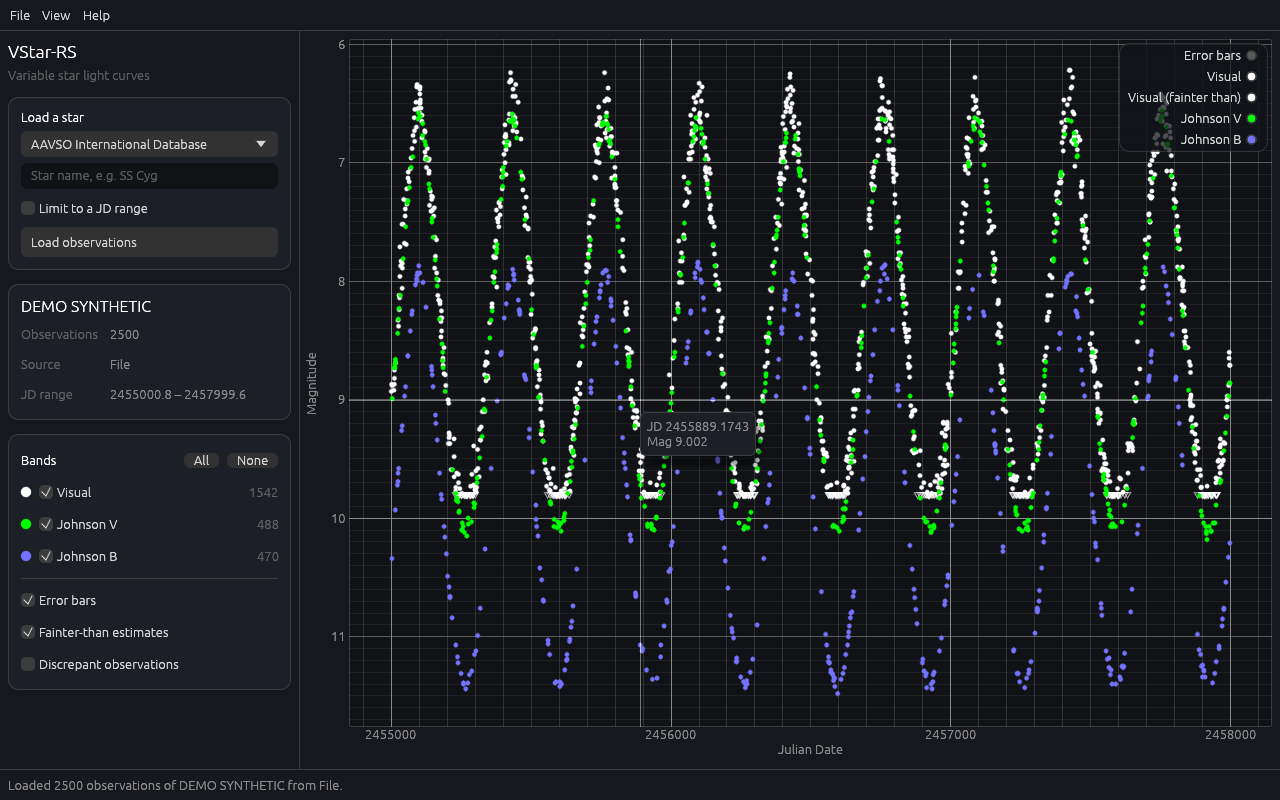
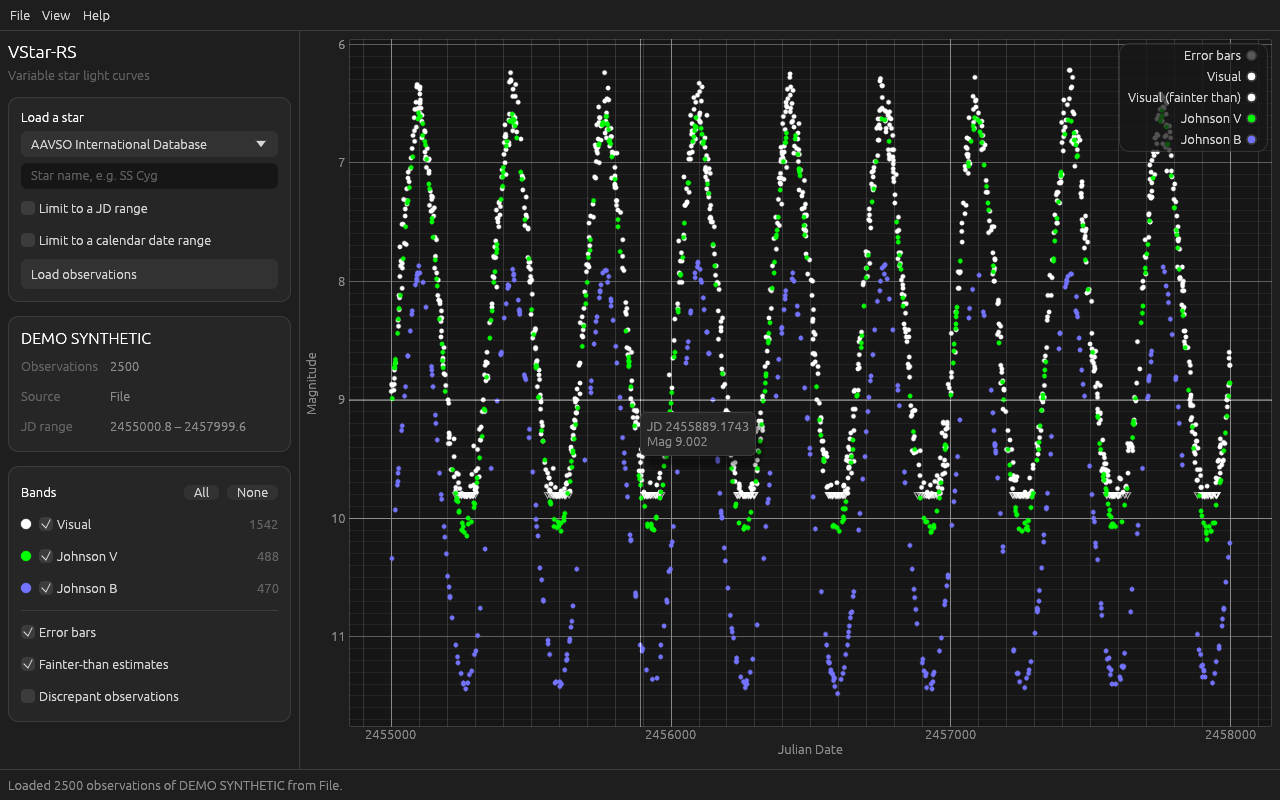
Use a neutral grey theme instead of blue
Backgrounds, selection and link colours are now grey in both light and
dark modes. Band colours on the plot are unchanged.

Claude-Session: https://claude.ai/code/session_018Uh3iLARAQKCVTpU8uizEj

diff --git a/crates/vstar-app/src/theme.rs b/crates/vstar-app/src/theme.rs
@@ -1,9 +1,9 @@
 //! A calmer, more modern look than egui's defaults: roomier spacing,
-//! rounder corners and a single accent colour.
+//! rounder corners and a neutral grey palette.
 
 use egui::{Color32, CornerRadius, Margin, Stroke, Theme, Vec2};
 
-pub const ACCENT: Color32 = Color32::from_rgb(0x4f, 0x8c, 0xff);
+pub const ACCENT: Color32 = Color32::from_rgb(0x9a, 0x9a, 0x9a);
 
 pub fn install(ctx: &egui::Context) {
     for theme in [Theme::Dark, Theme::Light] {
@@ -29,18 +29,22 @@ pub fn install(ctx: &egui::Context) {
             v.selection.bg_fill =
                 ACCENT.gamma_multiply(if theme == Theme::Dark { 0.6 } else { 0.35 });
             v.selection.stroke = Stroke::new(1.0, ACCENT);
-            v.hyperlink_color = ACCENT;
+            v.hyperlink_color = if theme == Theme::Dark {
+                Color32::from_rgb(0xd0, 0xd0, 0xd0)
+            } else {
+                Color32::from_rgb(0x40, 0x40, 0x40)
+            };
 
             if theme == Theme::Dark {
-                v.panel_fill = Color32::from_rgb(0x16, 0x18, 0x1d);
-                v.window_fill = Color32::from_rgb(0x1c, 0x1f, 0x26);
-                v.extreme_bg_color = Color32::from_rgb(0x10, 0x12, 0x16);
-                v.faint_bg_color = Color32::from_rgb(0x20, 0x23, 0x2b);
+                v.panel_fill = Color32::from_rgb(0x1e, 0x1e, 0x1e);
+                v.window_fill = Color32::from_rgb(0x26, 0x26, 0x26);
+                v.extreme_bg_color = Color32::from_rgb(0x16, 0x16, 0x16);
+                v.faint_bg_color = Color32::from_rgb(0x2a, 0x2a, 0x2a);
             } else {
-                v.panel_fill = Color32::from_rgb(0xf5, 0xf6, 0xf8);
+                v.panel_fill = Color32::from_rgb(0xf0, 0xf0, 0xf0);
                 v.window_fill = Color32::WHITE;
                 v.extreme_bg_color = Color32::WHITE;
-                v.faint_bg_color = Color32::from_rgb(0xec, 0xee, 0xf2);
+                v.faint_bg_color = Color32::from_rgb(0xe4, 0xe4, 0xe4);
             }
         });
     }
